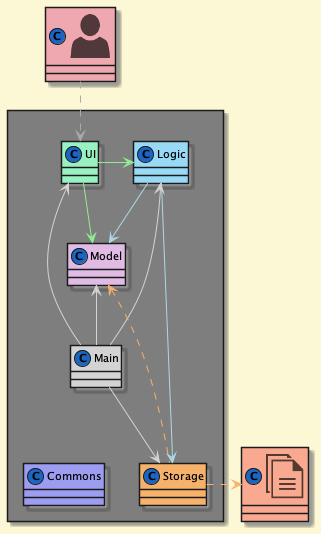
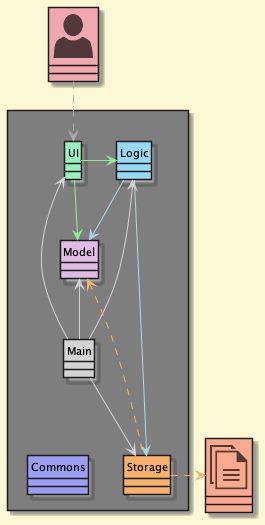
docs: remove circle in archi diagram

diff --git a/docs/DeveloperGuide.md b/docs/DeveloperGuide.md
@@ -135,7 +135,7 @@ How the `Logic` component works:
 
 The Sequence Diagram below illustrates the interactions within the `Logic` component for the `execute("delete 1")` API call.
 
-<img src="umlDiagrams/img/ArchitectureSequenceDiagram.png"/>
+<img src="umlDiagrams/img/DeleteSequenceDiagram.png"/>
 <div markdown="span" class="alert alert-info">:information_source: **Note:** The lifeline for `DeleteCommandParser` should end at the destroy marker (X) but due to a limitation of PlantUML, the lifeline reaches the end of diagram.
 </div>
 
